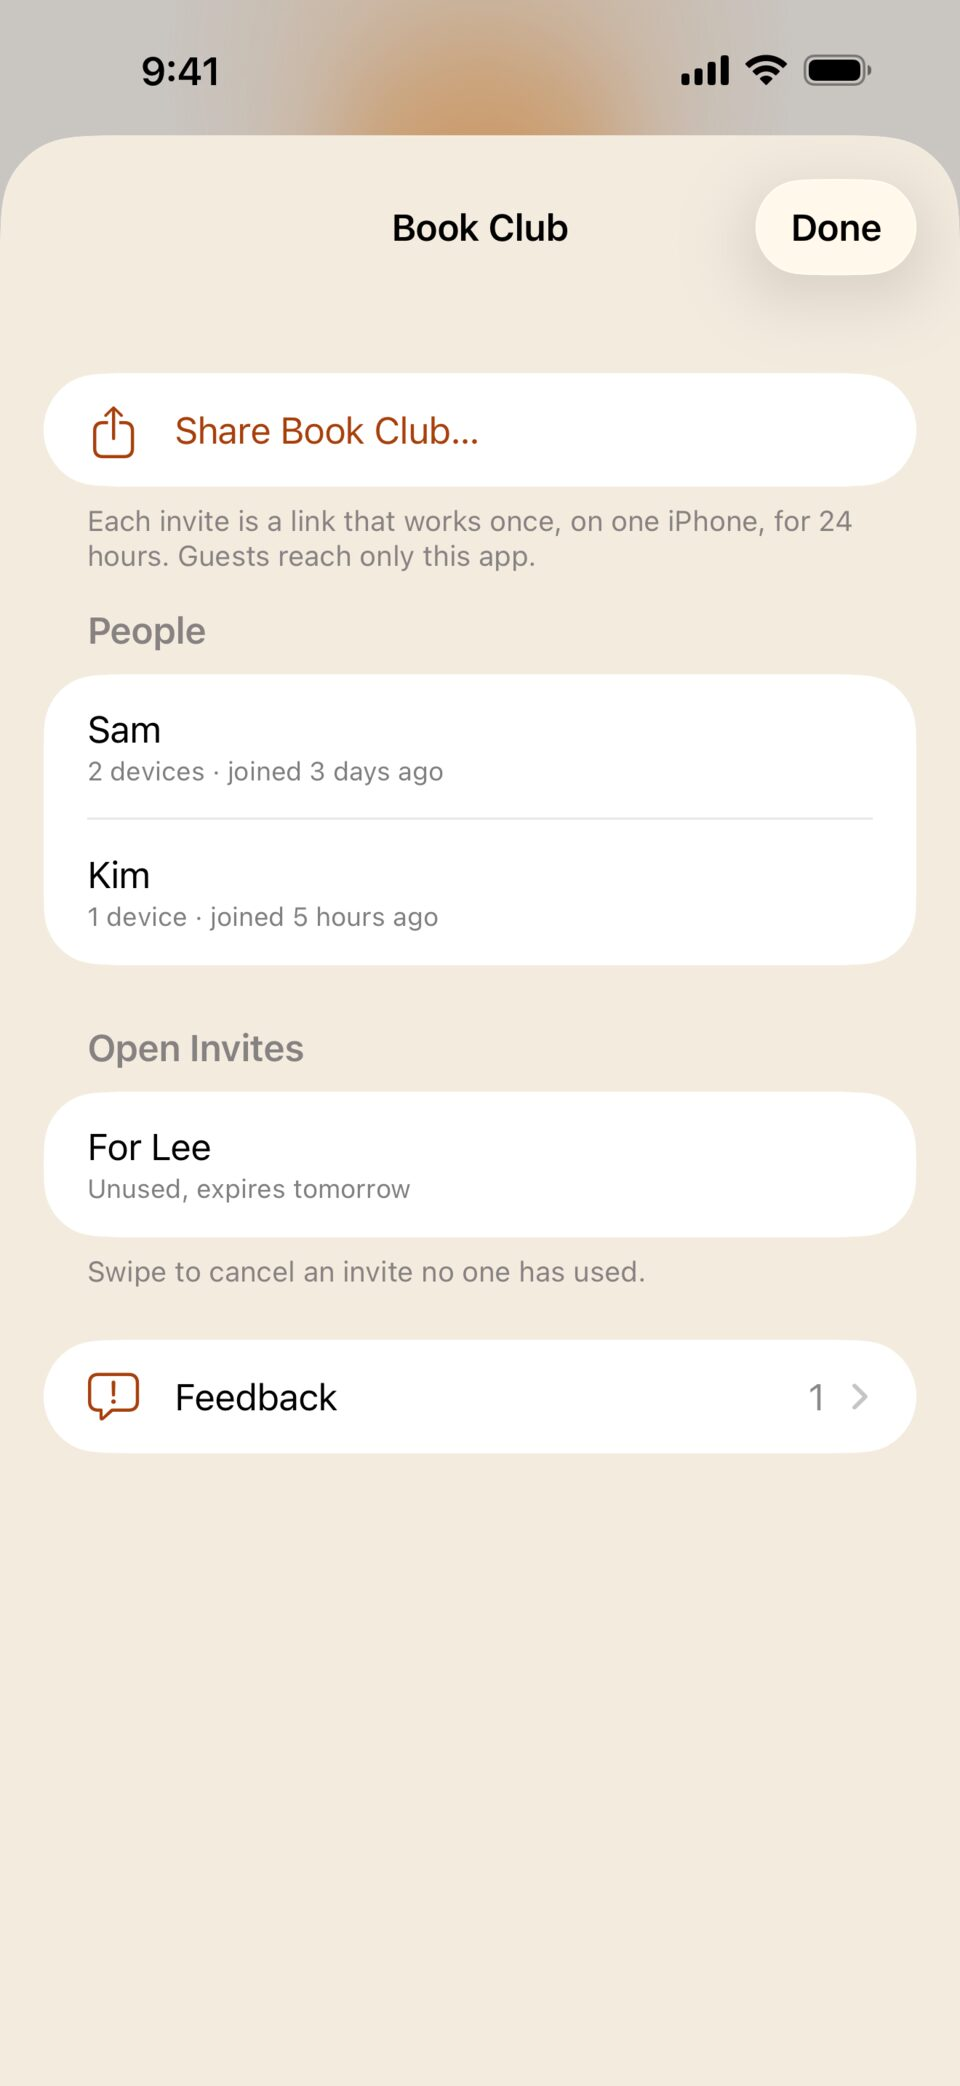
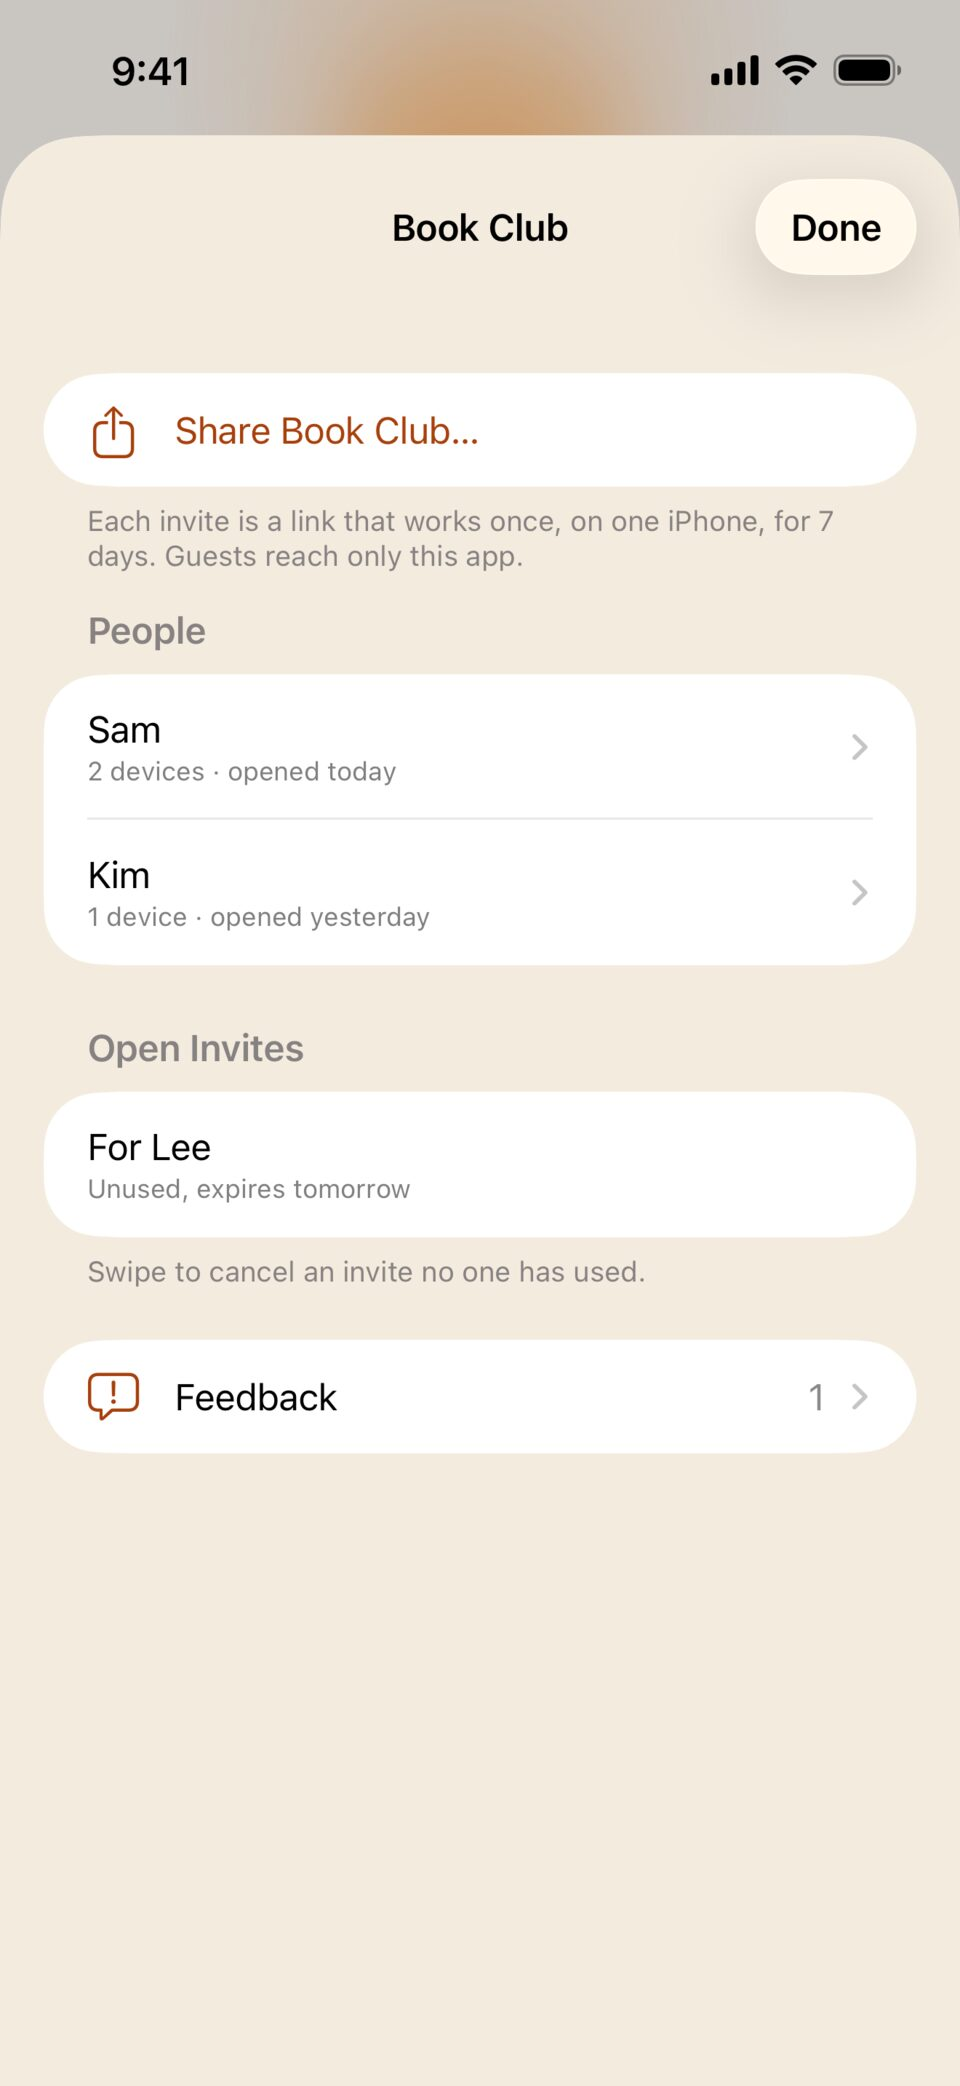
Connector and Ovenlight: invites last 7 days, not 24 hours
A friend who opens an invite the next evening shouldn't find it expired. Each invite
still works once, and an unused one can be canceled. App Review invites keep 90 days.
The app says a new invite expires "in 7 days" rather than "next week", and the site's
sharing images show the new footer.

diff --git a/Ovenlight/Sources/SharingView.swift b/Ovenlight/Sources/SharingView.swift
@@ -207,7 +207,7 @@ struct SharingAppView: View {
                     }
                 } footer: {
                     if app.shareable {
-                        Text("Each invite is a link that works once, on one iPhone, for 24 hours. Guests reach only this app.")
+                        Text("Each invite is a link that works once, on one iPhone, for 7 days. Guests reach only this app.")
                     } else {
                         Text("To share it, run this on its computer: ovenlight publish --slug \(app.slug) --shareable")
                     }
@@ -240,7 +240,7 @@ struct SharingAppView: View {
                             ForEach(invites) { invite in
                                 VStack(alignment: .leading, spacing: 2) {
                                     Text("For \(invite.to)")
-                                    Text("\(invite.review == true ? "Review invite, unused" : "Unused"), expires \(invite.expires.formatted(.relative(presentation: .named)))")
+                                    Text("\(invite.review == true ? "Review invite, unused" : "Unused"), expires \(invite.expiresIn)")
                                         .font(.caption).foregroundStyle(.secondary)
                                 }
                                 .accessibilityElement(children: .combine)
@@ -349,7 +349,7 @@ struct InviteComposer: View {
                         Section {
                             LabeledContent(person.name, value: person.devices)
                         } footer: {
-                            footer("The invite adds an iPhone for \(person.name): \(app.name) sees one person on all of them. It works once, on one iPhone, for 24 hours.")
+                            footer("The invite adds an iPhone for \(person.name): \(app.name) sees one person on all of them. It works once, on one iPhone, for 7 days.")
                         }
                         .ovenlightRows()
                     } else {
@@ -412,7 +412,7 @@ struct InviteComposer: View {
                       : "\(namesake.name) already has an invite. Use a name that tells them apart, like \(namesake.name) L.", systemImage: "person.2.fill")
                     .labelStyle(.warning)
             } else {
-                footer("\(trimmed.isEmpty ? "They see" : "\(trimmed) sees") this name on the invite, and \(app.name) knows them by it. You send the invite yourself next, by message or QR code. It works once, on one iPhone, for 24 hours.")
+                footer("\(trimmed.isEmpty ? "They see" : "\(trimmed) sees") this name on the invite, and \(app.name) knows them by it. You send the invite yourself next, by message or QR code. It works once, on one iPhone, for 7 days.")
             }
         }
     }
@@ -474,7 +474,7 @@ struct InviteResultView: View {
                     VStack(spacing: 6) {
                         Text("Invite for \(invite.to)")
                             .font(.display(.title2))
-                        Text("Works once. Expires \(invite.expires.formatted(.relative(presentation: .named))), at \(invite.expires.formatted(date: .omitted, time: .shortened)).")
+                        Text("Works once. Expires \(invite.expiresIn), at \(invite.expires.formatted(date: .omitted, time: .shortened)).")
                             .font(.subheadline)
                             .foregroundStyle(.secondary)
                     }

diff --git a/site/support.html b/site/support.html
@@ -71,7 +71,7 @@
     <article class="prose">
       <h2 id="invite"><a href="#invite">I got an invite. What do I do?</a></h2>
       <p>Open the invite link on your iPhone. If you don't have Ovenlight yet, get it from the <a href="https://apps.apple.com/app/id6817561066">App Store</a>, then open the link again. When Ovenlight shows who invited you and to which app, tap Join. You don't need an account. If the link opens a web page instead, tap Open in Ovenlight there. You were shown a QR code? Scan it with the Camera app, or in Ovenlight tap the ••• button, then Join with Invite, then Scan Invite Code.</p>
-      <p>An invite works once, on one iPhone, and expires after 24 hours. If yours was used or has expired, ask for a new one.</p>
+      <p>An invite works once, on one iPhone, and expires after 7 days. If yours was used or has expired, ask for a new one.</p>
 
       <h2 id="cant-reach"><a href="#cant-reach">The app says it can't reach the computer</a></h2>
       <p>Each app runs on its owner's own computer, not on our servers, so it opens only while that computer is on, awake and online. Check that your iPhone is online, then tap Try Again. If it still doesn't open, the computer is probably asleep or off, so let the person who shared the app know.</p>

diff --git a/site/index.html b/site/index.html
@@ -181,7 +181,7 @@
         <h2 class="section-title" id="sharing">Share an app in four steps</h2>
         <ol class="steps">
           <li><p>You make an app shareable once, on the computer that runs it.</p></li>
-          <li><p>You send an invite from Ovenlight or from that computer: a link or a QR code that works once and expires after 24 hours.</p></li>
+          <li><p>You send an invite from Ovenlight or from that computer: a link or a QR code that works once and expires after 7 days.</p></li>
           <li><p>Your friend opens it on their iPhone and taps Join, with no account to create and nothing to sign in to.</p></li>
           <li><p>The app shows up in their Ovenlight marked with your name, and they can send you feedback from inside it. Your coding agent can read that feedback, screenshot included, and fix the app.</p></li>
         </ol>

diff --git a/OvenlightTests/SharingTests.swift b/OvenlightTests/SharingTests.swift
@@ -847,6 +847,14 @@ final class GuestActivityTests: XCTestCase {
         XCTAssertEqual(GuestActivity.notYet.caption, "Not opened yet")
     }
 
+    func testANewInviteExpiresInDaysNotNextWeek() {
+        var fresh = AdminInvite(id: "i", to: "Sam", person: "p", app: "coach", state: AdminInvite.sent,
+                                expires: .now.addingTimeInterval(7 * 86_400 - 60))
+        XCTAssertEqual(fresh.expiresIn, "in 7 days")
+        fresh.expires = .now.addingTimeInterval(90 * 86_400)
+        XCTAssertEqual(fresh.expiresIn, "in 3 months")
+    }
+
     func testPeopleWhoOpenedAppsMostRecentlyComeFirst() {
         let since = daysAgo(30)
         let list = AdminGuestList(guests: [

diff --git a/Ovenlight/Sources/AdminAPI.swift b/Ovenlight/Sources/AdminAPI.swift
@@ -47,6 +47,13 @@ struct AdminInvite: Decodable, Equatable, Identifiable {
     var expires: Date
     /// Made with `ovenlight share --review` for Apple's App Review.
     var review: Bool?
+
+    /// When it expires, as people say it: "in 7 days", "tomorrow". Days rather than weeks,
+    /// or a new invite would expire "next week".
+    var expiresIn: String {
+        expires.formatted(Date.RelativeFormatStyle(allowedFields: [.year, .month, .day, .hour, .minute, .second],
+                                                   presentation: .named))
+    }
 }
 
 extension AdminInvite {

diff --git a/connector/share_daemon_test.go b/connector/share_daemon_test.go
@@ -175,7 +175,7 @@ func TestReviewInvite(t *testing.T) {
 		t.Errorf("invites list has no review marker: %s", data)
 	}
 
-	// The reconcile honors the review invite's lifetime, not the usual 24 hours.
+	// The reconcile honors the review invite's lifetime, not the usual 7 days.
 	now := time.Now()
 	if r := d.sh.st.reconcile(nil, []string{"coach"}, now.Add(30*24*time.Hour)); len(r.Expired) != 0 {
 		t.Fatalf("expired after 30 days: %v", r.Expired)
@@ -241,7 +241,7 @@ func TestPlainInviteIsNotReview(t *testing.T) {
 	if res.Invite.Review || strings.Contains(string(data), "review") || f.Keys[0].Expires.Sub(f.Keys[0].Created) != inviteTTL {
 		t.Errorf("plain invite = %s, key %+v", data, f.Keys[0])
 	}
-	if !strings.HasSuffix(res.Message, "within 24 hours to join: "+res.Link) {
+	if !strings.HasSuffix(res.Message, "within 7 days to join: "+res.Link) {
 		t.Errorf("message = %s", res.Message)
 	}
 }

diff --git a/connector/sharing.go b/connector/sharing.go
@@ -29,7 +29,7 @@ const (
 )
 
 const (
-	inviteTTL       = 24 * time.Hour      // key lifetime
+	inviteTTL       = 7 * 24 * time.Hour  // key lifetime
 	reviewInviteTTL = 90 * 24 * time.Hour // a review invite's key: App Review may test weeks later; Tailscale's maximum
 	claimGrace      = time.Hour           // a device that joined just before expiry may still claim
 	reconcileEvery  = 3 * time.Minute
@@ -422,7 +422,7 @@ func forTerminal(err error) error {
 
 func (inv Invite) open() bool { return inv.State == inviteSent }
 
-// lifetime is how long the invite's key lasts, to the hour: 24 hours, or 90 days for review.
+// lifetime is how long the invite's key lasts, to the hour: 7 days, or 90 days for review.
 func (inv Invite) lifetime() time.Duration { return inv.Expires.Sub(inv.Created).Round(time.Hour) }
 
 // peopleNamed lists the current people called name (any case).

diff --git a/connector/wire_test.go b/connector/wire_test.go
@@ -139,7 +139,7 @@ func TestWireFiles(t *testing.T) {
 		removed[i].RemovedAt, removed[i].RemovedWhy = &at, "removed by the owner"
 	}
 	canceled := Invite{ID: "b3c4d5e6f7", To: "Sam", Person: "7c2e91a4d0", App: "coach", State: inviteCanceled, RequestedBy: "ovenlight",
-		Created: wireT0.Add(3 * 24 * time.Hour), Expires: wireT0.Add(4 * 24 * time.Hour)}
+		Created: wireT0.Add(3 * 24 * time.Hour), Expires: wireT0.Add(3*24*time.Hour + inviteTTL)}
 	got["guest-removed"] = encoded(revokeResult{Removed: removed, Deleted: []string{"nSamPhone"}, Retagged: []string{"nSamPad"},
 		Canceled: []Invite{canceled}}.view())
 	got["guest-removed-with-errors"] = encoded(revokeResult{Removed: removed[:1], Errors: []string{

diff --git a/connector/sharing_test.go b/connector/sharing_test.go
@@ -391,7 +391,7 @@ func TestInviteLinkRoundTrip(t *testing.T) {
 	}
 	// The message says how long the key lasts, to the hour.
 	res := &shareResult{Link: s, AppName: "Interview Coach", Invite: Invite{Created: t0, Expires: t0.Add(inviteTTL - time.Second)}}
-	if msg := inviteMessage(res); msg != "I'm sharing Interview Coach with you in Ovenlight, an iPhone app. Open this link on your iPhone within 24 hours to join: "+s {
+	if msg := inviteMessage(res); msg != "I'm sharing Interview Coach with you in Ovenlight, an iPhone app. Open this link on your iPhone within 7 days to join: "+s {
 		t.Errorf("message = %s", msg)
 	}
 	res.Invite.Expires, res.Owner = t0.Add(reviewInviteTTL), "Sam"

diff --git a/connector/connector_test.go b/connector/connector_test.go
@@ -379,7 +379,7 @@ func TestSlugAndValidation(t *testing.T) {
 
 func TestHumanDuration(t *testing.T) {
 	for d, want := range map[time.Duration]string{
-		inviteTTL: "24 hours", reviewInviteTTL: "90 days", tagWait: "90 seconds",
+		inviteTTL: "7 days", reviewInviteTTL: "90 days", tagWait: "90 seconds",
 		time.Hour: "1 hour", 10 * time.Minute: "10 minutes", 48 * time.Hour: "2 days",
 	} {
 		if got := humanDuration(d); got != want {

diff --git a/docs/security.md b/docs/security.md
@@ -192,8 +192,8 @@ a node's key expires within 30 days.
 
 ## Invites
 
-- `share` mints a single-use key tagged `tag:ovenlight-guest-<slug>` that expires in 24
-  hours, or 90 days for an App Review invite (`share --review`, terminal only;
+- `share` mints a single-use key tagged `tag:ovenlight-guest-<slug>` that expires in 7
+  days, or 90 days for an App Review invite (`share --review`, terminal only;
   [development.md](development.md#app-review-invites)). The key is preauthorized, whatever
   the tailnet's device approval setting, so a guest's phone never waits for you.
 - The connector records the invite with the key's SHA-256, never the key.
@@ -213,7 +213,7 @@ a node's key expires within 30 days.
 
 Ovenlight never asks you to approve a guest's phone. Guests join under random device
 names, so you couldn't tell whose phone was waiting, and approving it would be a rubber
-stamp. What protects you is the invite: it works once, for 24 hours, and only for one app,
+stamp. What protects you is the invite: it works once, for 7 days, and only for one app,
 since the policy lets its guest tag reach that app alone. You can remove anyone at any
 time. If a stranger uses a forwarded link first, the invite doesn't work for the guest you
 invited, and your guest list shows who joined with it, so you can remove them.

diff --git a/docs/connector.md b/docs/connector.md
@@ -349,7 +349,7 @@ It prints a link, a QR code and a message to send. The other sharing commands:
   one.
 - `ovenlight share --cancel <id>`: withdraws an invite that hasn't been used.
 
-An invite link works once and expires after 24 hours. Your friend's iPhone joins without
+An invite link works once and expires after 7 days. Your friend's iPhone joins without
 waiting for your approval, even if your tailnet has device approval on
 ([security.md](security.md#invites) says why). You can also share apps and remove guests
 in Ovenlight on your iPhone: touch and hold one of your apps, or open People & Sharing
